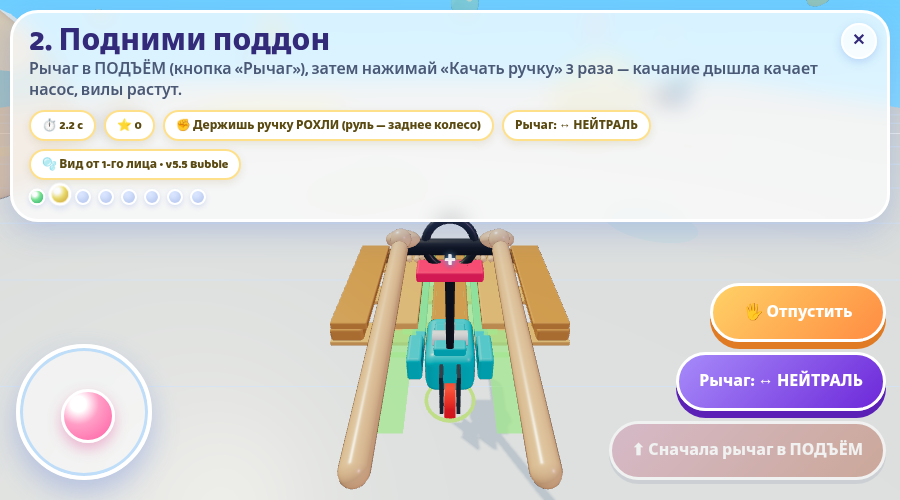
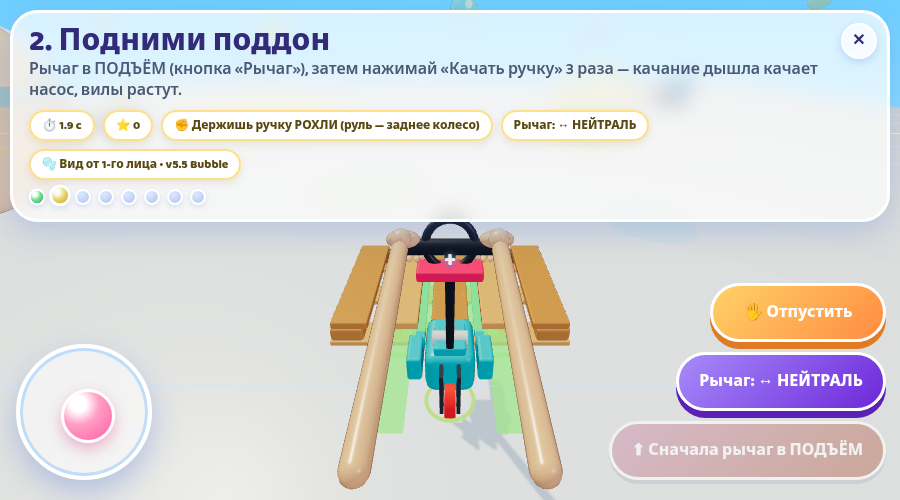
v5.5: manual izolon unroll - pull sheet edge to floor target

diff --git a/index.html b/index.html
@@ -169,6 +169,11 @@ for(let i=0;i<4;i++){const t=new THREE.Mesh(new THREE.TorusGeometry(.252,.006,6,
 box(izolonRoll,-.45,0,0,.08,.28,.5,0x44505a); box(izolonRoll,.45,0,0,.08,.28,.5,0x44505a);
 box(izolonRoll,0,.06,-.32,1.0,.06,.12,0x44505a);
 const rollLabel=box(izolonRoll,0,.52,.18,.55,.16,.03,M.yellow);
+// v5.5 MANUAL UNROLL: yellow floor target the player must pull the sheet edge to (~1.4m strip)
+const pullTargetPos=new THREE.Vector2(rollPos.x-1.7,rollPos.y+0.3);
+const pullTarget=new THREE.Mesh(new THREE.TorusGeometry(.34,.035,10,32),new THREE.MeshBasicMaterial({color:0xffd400,transparent:true,opacity:.9}));
+pullTarget.rotation.x=Math.PI/2; pullTarget.position.set(pullTargetPos.x,.03,pullTargetPos.y); pullTarget.visible=false; scene.add(pullTarget);
+let pullLen=0; const PULL_NEED=1.25;
 // strip unrolled from roll (grows during unroll anim) + loose cut strip on floor
 const unrolled=box(scene,0,-1,0,.95,.018,1.4,0xfff7fb); unrolled.visible=false;
 const looseStrip=box(scene,0,-1,0,1.30,.02,.95,0xfff7fb); looseStrip.visible=false;
@@ -254,7 +259,7 @@ const stages=[
  ["3. Вывези поддон на жёлтую площадку","Рычаг в НЕЙТРАЛЬ — в ней насос отключён и можно везти. Управление — ЗАДНИМ колесом, как машина задом: толкаешь от себя, повернул дышло/заднее колесо влево — корма уходит влево, а нос вил при этом доворачивается ВПРАВО (и наоборот). На месте корпус с вилами не поворачивается.","Ехать"],
  ["4. Опусти поддон и отойди","Поставь рычаг в ОПУСКАНИЕ и нажми действие — пока держишь рычаг, клапан открыт и вилы плавно идут вниз пропорционально. Затем «Отпустить» и отойди.","Рычаг — опустить"],
  ["5. Подкати тележку — БАБИНОЙ вперёд","Подойди к ручке тележки сзади, нажми «Взять». Лицевая часть тележки — где бабина с лентой: кати её БАБИНОЙ к поддону, ручка остаётся у тебя сзади.","Ехать"],
- ["6. Изолон: отмотай от рулона, отрежь у рулона, положи на поддон","Большой рулон изолона стоит рядом с площадкой. 1) «Отмотай изолон от рулона» — рулон крутится, полоса тянется. 2) Возьми нож у рулона и «Отрежь полосу ножом у рулона». 3) «Положи полосу на поддон».","Отмотай изолон от рулона"],
+ ["6. Изолон: САМ отмотай от рулона, отрежь у рулона, положи на поддон","Изолон отматываешь вручную, не кнопкой: 1) Подойди к рулону и нажми «Взять край изолона». 2) ИДИ от рулона к жёлтой метке на полу и тяни — полоса вытягивается за тобой, рулон крутится и уменьшается, длина растёт с пройденным расстоянием (нужно ≥1.25 м, метка ≈1.4 м полосы). Не дотянул или ушёл не туда — отпусти край («Отпустить») и попробуй снова. 3) Возьми нож у рулона и отрежь полосу У РУЛОНА. 4) Положи полосу на поддон.","Взять край изолона"],
  ["7. Протяни ленту под поддоном","Подойди к тележке у поддона и нажми «Протянуть ленту»: передняя бабина раскрутится, лента уйдёт под поддон и вокруг него.","Протянуть ленту"],
  ["8. Затяни стреппером","Упаковщик VertexTools лежит в корзинке/лотке тележки H-83. Подойди к тележке, возьми его из лотка («Взять»), подойди к поддону и нажми «Затянуть».","Затянуть стреппером"],
 ];
@@ -279,14 +284,14 @@ function updateHUD(){
  $('stageHint').textContent=finished?`Время: ${elapsed.toFixed(1)} c • Очки: ${score}. Нажми «Ещё раз».`:stages[stage][1];
  $('score').textContent='⭐ '+score;
  $('leverPill').textContent='Рычаг: '+(leverPos==='lift'?'⬆ ПОДЪЁМ':leverPos==='lower'?'⬇ ОПУСКАНИЕ':'↔ НЕЙТРАЛЬ'); $('btnLever').textContent='Рычаг: '+(leverPos==='lift'?'⬆ ПОДЪЁМ':leverPos==='lower'?'⬇ ОПУСКАНИЕ':'↔ НЕЙТРАЛЬ');
- $('holdPill').textContent=holding==='jack'?'✊ Держишь ручку РОХЛИ (руль — заднее колесо)':holding==='cart'?'✊ Держишь тележку (бабина спереди)':holding==='knife'?'🔪 В руке нож':holding==='tool'?'🔧 В руках стреппер':'✋ Руки свободны';
+ $('holdPill').textContent=holding==='jack'?'✊ Держишь ручку РОХЛИ (руль — заднее колесо)':holding==='cart'?'✊ Держишь тележку (бабина спереди)':holding==='edge'?'✊ Держишь край ИЗОЛОНА — тяни к жёлтой метке':holding==='knife'?'🔪 В руке нож':holding==='tool'?'🔧 В руках стреппер':'✋ Руки свободны';
  [...dots.children].forEach((d,i)=>{d.className='dot'+(i<stage||finished?' on':i===stage?' cur':'')});
  const b=$('action');
  if(finished){b.disabled=false;b.textContent='🔄 Ещё раз';return}
  if(stage===1){b.disabled=holding!=='jack'||leverPos!=='lift';b.textContent=leverPos!=='lift'?'⬆ Сначала рычаг в ПОДЪЁМ':`💪 Качать ручку (${pumps}/3)`}
  else if(stage===3){b.disabled=!(holding==='jack'&&palletState==='onForks'&&leverPos==='lower');b.textContent=leverPos!=='lower'?'⬇ Сначала рычаг в ОПУСКАНИЕ':'⬇ Держать рычаг — опустить'}
  else if(stage===5){ const dRoll=playerPos.distanceTo(rollPos), dPal=playerPos.distanceTo(new THREE.Vector2(pallet.position.x,pallet.position.z));
-   if(sheetSub===0){b.disabled=holding!==null||!!anim||dRoll>2.6;b.textContent='🌀 Отмотай изолон от рулона'}
+   if(sheetSub===0){b.disabled=true;b.textContent=holding==='edge'?`📏 Тяни к жёлтой метке: ${pullLen.toFixed(2)} / ${PULL_NEED.toFixed(2)} м`:'✋ Возьми край изолона у рулона и тяни сам'}
    else if(sheetSub===1){b.disabled=holding!=='knife'||dRoll>2.8;b.textContent='✂ Отрежь полосу ножом у рулона'}
    else {b.disabled=holding!==null||dPal>2.6;b.textContent='⬜ Положи полосу на поддон'} }
  else if(stage===6){b.disabled=!!anim;b.textContent='🧵 Протянуть ленту (бабина крутится!)'}
@@ -328,6 +333,7 @@ function nearestInteract(){
  const cands=[];
  const jp=gripWorld(jackGrip); if(playerPos.distanceTo(new THREE.Vector2(jp.x,jp.z))<1.8)cands.push({id:'jack',label:'✋ Взять ручку рохли',d:playerPos.distanceTo(new THREE.Vector2(jp.x,jp.z))});
  const cp=gripWorld(cartGrip); if(playerPos.distanceTo(new THREE.Vector2(cp.x,cp.z))<1.8)cands.push({id:'cart',label:'✋ Взять ручку тележки',d:playerPos.distanceTo(new THREE.Vector2(cp.x,cp.z))});
+ if(stage===5&&sheetSub===0&&playerPos.distanceTo(rollPos)<2.0)cands.push({id:'edge',label:'✋ Взять край изолона',d:playerPos.distanceTo(rollPos)});
  if(stage===5&&sheetSub===1&&knife.visible){const kp=knife.position; if(playerPos.distanceTo(new THREE.Vector2(kp.x,kp.z))<1.9)cands.push({id:'knife',label:'✋ Взять нож',d:playerPos.distanceTo(new THREE.Vector2(kp.x,kp.z))})}
  if(stage===7&&tool.visible!==false){const tp=tool.position; if(playerPos.distanceTo(new THREE.Vector2(tp.x,tp.z))<1.9)cands.push({id:'tool',label:'✋ Взять упаковщик из лотка тележки',d:playerPos.distanceTo(new THREE.Vector2(tp.x,tp.z))})}
  cands.sort((a,b)=>a.d-b.d); return cands[0]||null;
@@ -338,6 +344,7 @@ $('btnShowHud').onclick=()=>{document.getElementById('hud').style.display='';doc
 function doTake(){
  if(anim)return;
  if(holding){
+   if(holding==='edge'){holding=null; pullLen=0; unrolled.visible=false; rollSpin.rotation.x=0; rollSpin.scale.set(1,1,1); toast('🖐 Отпустил край изолона — полоса не засчитана, попробуй снова'); updateHUD(); return;}
    if(holding==='knife'){knife.visible=true; knife.position.set(playerPos.x+dirOf(playerYaw).x*.4,.22,playerPos.y+dirOf(playerYaw).y*.4)}
    if(holding==='tool'){tool.position.set(playerPos.x+dirOf(playerYaw).x*.4,.25,playerPos.y+dirOf(playerYaw).y*.4)}
    holding=null; toast('🖐 Отпустил'); updateHUD(); return;
@@ -345,7 +352,7 @@ function doTake(){
  const it=nearestInteract(); if(!it)return;
  holding=it.id; started=true;
  if(holding==='knife')knife.visible=false;
- toast(it.id==='jack'?'✊ Взялся за ручку рохли! Стик ◀▶ рулит задним колесом':it.id==='cart'?'✊ Взялся за тележку. Бабина — спереди, кати её к поддону':it.id==='knife'?'🔪 Нож в руке':'🔧 Стреппер в руках');
+ toast(it.id==='edge'?'✊ Держишь край изолона! Иди к жёлтой метке — тяни полосу от рулона':it.id==='jack'?'✊ Взялся за ручку рохли! Стик ◀▶ рулит задним колесом':it.id==='cart'?'✊ Взялся за тележку. Бабина — спереди, кати её к поддону':it.id==='knife'?'🔪 Нож в руке':'🔧 Стреппер в руках');
  updateHUD();
 }
 $('btnLever').onclick=()=>{leverPos=leverPos==='neutral'?'lift':leverPos==='lift'?'lower':'neutral'; leverAnim=1; toast(leverPos==='lift'?'⬆ Рычаг: ПОДЪЁМ — качай ручку':leverPos==='lower'?'⬇ Рычаг: ОПУСКАНИЕ — вилы пойдут вниз':'↔ Рычаг: НЕЙТРАЛЬ — можно везти'); updateHUD()};
@@ -357,16 +364,11 @@ function doAction(){
    const lift=.038*pumps; pallet.position.y=lift; jackForks.position.y=lift; Pump_Piston.position.y=pistonBaseY+lift*.5;
    if(pumps>=3){palletState='onForks';nextStage('✅ Поддон поднят на вилах!')} else updateHUD();}
  else if(stage===3&&holding==='jack'&&palletState==='onForks'&&leverPos==='lower'){leverAnim=1; const y0=pallet.position.y; anim={t:0,dur:1.2,mode:'lower',fn:k=>{pallet.position.y=y0*(1-k); jackForks.position.y=y0*(1-k); Pump_Piston.position.y=pistonBaseY+y0*(1-k)*.5;},done:()=>{palletState='placed';score+=50;leverPos='neutral';toast('⬇ Поддон опущен (клапан открыт рычагом). Отпусти ручку и отойди');updateHUD()}}}
- else if(stage===5&&sheetSub===0){ // UNROLL from big roll
-   anim={t:0,dur:2.2,mode:'unroll',fn:k=>{rollSpin.rotation.x+=0.22; unrolled.visible=true;
-     const rp=new THREE.Vector3(); izolonRoll.getWorldPosition(rp);
-     const dir=new THREE.Vector3(-Math.sin(izolonRoll.rotation.y),0,-Math.cos(izolonRoll.rotation.y));
-     const len=.3+1.35*k; unrolled.scale.z=len/1.4; unrolled.position.set(rp.x+dir.x*(0.28+len/2),.035,rp.z+dir.z*(0.28+len/2)); unrolled.rotation.y=izolonRoll.rotation.y;},
-     done:()=>{sheetSub=1; knife.visible=true; const rp=izolonRoll.position; knife.position.set(rp.x-.55,.30,rp.z+.55); knife.rotation.y=.6; toast('🌀 Полоса отмотана! Возьми нож у рулона'); updateHUD()}}; updateHUD()}
+ else if(stage===5&&sheetSub===0){ toast(holding==='edge'?'🚶 Тяни край к жёлтой метке на полу':'✋ Сначала возьми край изолона у рулона — отмотка только вручную'); }
  else if(stage===5&&sheetSub===1&&holding==='knife'){
    const rp=izolonRoll.position; const cutP=new THREE.Vector3(rp.x-.75,.30,rp.z+.15);
    anim={t:0,dur:1.5,mode:'cut',fn:k=>{cutHandPos=cutP.clone(); cutHandPos.x+=(k-.5)*.25; rollSpin.rotation.x+=0.01},
-     done:()=>{cutHandPos=null;holding=null;unrolled.visible=false; looseStrip.visible=true; looseStrip.position.set(rp.x-1.15,.04,rp.z+.25); looseStrip.rotation.y=izolonRoll.rotation.y+.15; knife.visible=true; knife.position.set(rp.x-.5,.22,rp.z+.6); sheetSub=2; toast('✂ Полоса отрезана от рулона! Отнеси её на поддон'); updateHUD()}}}
+     done:()=>{cutHandPos=null;holding=null;rollSpin.scale.set(1,1,1);rollSpin.rotation.x=0;pullLen=0;unrolled.visible=false; looseStrip.visible=true; looseStrip.position.set(rp.x-1.15,.04,rp.z+.25); looseStrip.rotation.y=izolonRoll.rotation.y+.15; knife.visible=true; knife.position.set(rp.x-.5,.22,rp.z+.6); sheetSub=2; toast('✂ Полоса отрезана от рулона! Отнеси её на поддон'); updateHUD()}}}
  else if(stage===5&&sheetSub===2){ const px=pallet.position.x,pz=pallet.position.z; looseStrip.visible=false;
    anim={t:0,dur:1.0,fn:k=>{sheet.visible=true; sheet.position.set(px,1.5-1.32*k,pz+.02); sheet.rotation.y=(1-k)*.4},done:()=>{sheet.position.y=.185; nextStage('⬜ Полоса изолона на поддоне! Теперь лента')}}}
  else if(stage===6){strapG.visible=true;positionStrap(0.02);
@@ -407,7 +409,27 @@ function updateSlotHighlight(){
   slotState=aim.ok?'ok':(dist<2.2?'bad':'idle');
   return aim;
 }
-function checkStages(){
+function updatePullStrip(){
+  const f=dirOf(playerYaw); const edge=new THREE.Vector2(playerPos.x+f.x*.45,playerPos.y+f.y*.45);
+  const toEdge=new THREE.Vector2().subVectors(edge,rollPos); const dist=toEdge.length();
+  pullLen=Math.max(0,dist-.28); // strip length = distance pulled from roll surface, grows with walked distance
+  const dir=dist>0.001?toEdge.clone().divideScalar(dist):new THREE.Vector2(1,0);
+  unrolled.visible=true; unrolled.scale.z=Math.max(.06,pullLen/1.4);
+  unrolled.position.set(rollPos.x+dir.x*(.28+pullLen/2),.035,rollPos.y+dir.y*(.28+pullLen/2));
+  unrolled.rotation.y=Math.atan2(toEdge.x,toEdge.y);
+  rollSpin.rotation.x=-pullLen/.25; // roll spins as sheet unwinds
+  const shrink=1-.10*Math.min(1,pullLen/1.7); rollSpin.scale.set(1,shrink,shrink); // roll visibly gets thinner
+}
+function checkPull(){
+  if(!(stage===5&&sheetSub===0&&holding==='edge'))return;
+  updatePullStrip();
+  if(playerPos.distanceTo(pullTargetPos)<.45&&pullLen>=PULL_NEED){
+    holding=null; sheetSub=1; knife.visible=true; const rp=izolonRoll.position;
+    knife.position.set(rp.x-.55,.30,rp.z+.55); knife.rotation.y=.6;
+    score+=30; toast(`✅ Отмотал вручную ${pullLen.toFixed(2)} м! Теперь отрежь у рулона ножом`); updateHUD();
+  }
+}
+function checkStages(){ checkPull();
  const fc=forkCenter(), pp=new THREE.Vector2(pallet.position.x,pallet.position.z);
  if(stage===0){const aim=updateSlotHighlight();
    // entered: fork centre well inside pallet footprint and aligned
@@ -509,6 +531,9 @@ function updateHands(dt){
    poseL=gripPose(jackGrip,-.14); poseR=gripPose(jackGrip,.14); curlL=curlR=1.0;
  } else if(holding==='cart'){
    poseL=gripPose(cartGrip,-.11); poseR=gripPose(cartGrip,.11); curlL=curlR=.88;
+ } else if(holding==='edge'){
+   poseL=camPose(handL,-.25,-.28,-.5,-.5,.3);
+   poseR=camPose(handR,.22,-.34,-.46,-.65,-.2); curlR=.95; curlL=.25; // round right hand grips sheet edge
  } else if(holding==='knife'){
    poseL=camPose(handL,-.27,-.33,-.5,-.5,.3);
    poseR=camPose(handR,.26,-.28,-.48,-.6,-.25); curlR=.92;
@@ -546,6 +571,10 @@ if(demo==='grip'){
   playerPos.set(1.6,-7.7); playerYaw=-0.55; playerPitch=-.14; demoFreeze=true;
   jack.position.set(jackPos.x,0,jackPos.y); jack.rotation.y=jackAng; jack.updateMatrixWorld(true);
   // hands free visible low
+} else if(demo==='pull'){
+  stage=5; sheetSub=0; holding='edge'; started=true; demoFreeze=true;
+  playerPos.set(5.55,1.95); playerYaw=2.32; playerPitch=-.48; // looking back/down at roll: stretched strip visible on floor to the roll
+  updatePullStrip();
 } else if(demo==='cut'){
   pallet.position.set(zone.position.x,0,zone.position.z); palletState='placed';
   unrolled.visible=true; unrolled.position.set(rollPos.x-.85,.035,rollPos.y+.35); unrolled.rotation.y=izolonRoll.rotation.y;
@@ -599,6 +628,7 @@ function loop(){requestAnimationFrame(loop); const dt=Math.min(clock.getDelta(),
  camera.rotation.set((holding==='jack'||holding==='cart')?playerPitch-.42:playerPitch,effYaw+Math.PI,0);
  updateHands(dt);
  zone.children[0].material.opacity=.28+.14*Math.sin(performance.now()*.004);
+ pullTarget.visible=(stage===5&&sheetSub===0); if(pullTarget.visible){pullTarget.material.opacity=.65+.3*Math.sin(performance.now()*.006); const sc=1+.08*Math.sin(performance.now()*.006); pullTarget.scale.set(sc,sc,sc);}
  const bt=performance.now()*.001; for(const b of bubbles){b.m.position.y+=Math.sin(bt*.7+b.ph)*.0006+b.sp*dt; b.m.position.x=b.x+Math.sin(bt*.5+b.ph)*.25; if(b.m.position.y>4.2)b.m.position.y=.5;}
  $('timer').textContent='⏱ '+elapsed.toFixed(1)+' c';
  // refresh take/action availability lightly

diff --git a/README.md b/README.md
@@ -16,7 +16,7 @@ cd warehouse_game && python3 -m http.server 8765
 - **Стреппер VertexTools 14.4V Li-Ion V2 (v5.1):** сверен с оригиналом — Li-Ion 14.4V 4.0Ah, лента ПП/ПЭТ 12–16 мм, натяжение до 3200 Н, сварка трением, ~3,6 кг, инструмент ~380×130×130 мм (440×180×280 — упаковка). В игре: вытянутый бирюзовый корпус 370×130×160, нос спереди, ручка/дисплей сверху, батарея 14.4V сзади/снизу. **Лежит в корзинке/лотке тележки H-83** — оттуда игрок его и берёт на этапе затяжки. Blender `strapping_tool.glb` не переделывался (длина ~340 мм, делался по фото этого инструмента).
 - **Тележка-диспенсер H-83 (v5.1):** оригинал https://www.polimer76.ru/product/dispenser-n-83/ — 700×400×400 мм, 11 кг, пластиковый лоток для инструмента/скоб, колёса шириной 38 мм, бабина: внутр. Ø200 мм (280 с переходником), бухта до Ø590, ширина до 200 мм. В игре: длина ~700, ширина 400, бабина спереди плоский диск Ø480×180 (не широкий барабан), лоток сверху/за бабиной, задние колёса 38 мм. Движется только в наклонном положении, вертикально стоит устойчиво — в игре наклон не усложняли, применены габариты и плоская бабина. Blender `strap_cart` пересобран теми же пропорциями.
 - **Рохля по чертежу пользователя (v5.1):** общая длина 1000 мм, рукоять до 1150 мм, корпус/насос до 365 мм, верх опущенных вил ~60 мм, вилы от корпуса 705 мм, ширина по вилам 440 мм (между вилами 280 мм, вила 80 мм), концы вил скруглённые, одно большое рулевое колесо Ø~190 мм у насоса, маленькие сдвоенные ролики под концами вил, тонкая штанга-дышло с замкнутой петлёй сверху. Низкий вытянутый корпус с наклонной передней стенкой (не кубик). В игре центры вил сохранены под пазы поддона, визуально вилы тонкие 80 мм.
-- **v5.5:** заезд рохли в поддон развёрнут на 180° (было со стороны прохода/юга и старта игрока, стало со стороны стеллажа/севера: поддон стоит у стеллажа, стеллаж отодвинут к северной стене, рохля и игрок стартуют с северной стороны, южный торец поддона закрыт планкой, пазы подсвечиваются только у северного торца, slotAim подписанный — прежняя сторона не засчитывается) + управление переделано на ЗАДНЕЕ рулевое колесо как движение машины задом (пивот едет вдоль заднего колеса, доворот корпуса = -(v/L)·sin(steer): толчок от себя + колесо влево → корма влево, нос вил вправо; тест t=0.5с: rearDx=+0.386м, yaw=-28.1°, t=2с: yaw=-109.8°, нос noseX=-0.941, симметрично вправо наоборот; на месте корпус заморожен). Приёмка: `game_v55_slots.png`, `game_v55_jack.png`, `game_v55_grip.png`, `game_v55_turn.png`.
+- **v5.5:** заезд рохли в поддон развёрнут на 180° (было со стороны прохода/юга и старта игрока, стало со стороны стеллажа/севера: поддон стоит у стеллажа, стеллаж отодвинут к северной стене, рохля и игрок стартуют с северной стороны, южный торец поддона закрыт планкой, пазы подсвечиваются только у северного торца, slotAim подписанный — прежняя сторона не засчитывается) + управление переделано на ЗАДНЕЕ рулевое колесо как движение машины задом (пивот едет вдоль заднего колеса, доворот корпуса = -(v/L)·sin(steer): толчок от себя + колесо влево → корма влево, нос вил вправо; тест t=0.5с: rearDx=+0.386м, yaw=-28.1°, t=2с: yaw=-109.8°, нос noseX=-0.941, симметрично вправо наоборот; на месте корпус заморожен). Изолон на этапе 6 отматывается ВРУЧНУЮ (не кнопкой): «Взять край изолона» у рулона → игрок идёт к жёлтой метке на полу (pullTarget в 1.7 м от рулона), полоса тянется за рукой, `pullLen = расстояние от поверхности рулона до края` растёт с пройденным путём, рулон крутится (`rotation.x=-pullLen/0.25`) и тончает до −10%; засчитывается при игроке в радиусе 0.45 м от метки и pullLen ≥1.25 м (≈1.4 м полосы), отпускание края до метки сбрасывает попытку; дальше нож у рулона и полоса на поддон как раньше. Приёмка: `game_v55_slots.png`, `game_v55_jack.png`, `game_v55_grip.png`, `game_v55_turn.png`, `game_v55_pull.png`, `game_v55_cut.png`.
 - **v5.4:** стыковка деталей (силуэт и размеры v5.3 не менялись): основания вил заходят под/внутрь насосного блока через низкий переходной узел-коромысло (перекрытия 10–40 мм, без светлых зазоров сбоку и сверху); рулевое колесо Ø190 на оси в вилке-щёках, примыкающих к низу блока и касающихся земли; дышло входит в поворотный узел на верху блока, шток Pump_Piston соединяет блок и узел и виден в стыке; ролики у концов вил — оси внутри вил, ролики касаются земли и нижней кромки вил. В Blender меши пересекаются на 5–15+ мм, в Three.js те же перекрытия у Fork/Body/Steering/Roller. Приёмка рендерами: `pallet_jack_side.png`, `pallet_jack_parts.png`, `game_v54_jack.png`, `game_v54_grip.png`.
 - **v5.3:** рохля переделана по силуэту: компактный насосный блок 300×240 мм высотой 360 мм (не клин/не ящик), большое рулевое колесо Ø190 мм ПОД блоком и видно сбоку, длинные тонкие вилы 1100 мм от блока (ширина вилы 80 мм, толщина ~50 мм, сдвоенные ролики у концов), общая длина ~1550 мм, высота до петли ~1180 мм. Вилы проходят под европоддоном 1200×800 почти на всю глубину (в игре поддон 1450×950 в игровом масштабе, вилы 1100 от блока). Чертёж пользователя — короткая версия (вилы 705 при длине 1000): пропорции по ширине взяты с него (440 по вилам), длина вил увеличена под европоддон — указано честно. Blender `pallet_jack_parts` и игра совпадают по длине вил. Рендер-приёмка: `pallet_jack_side.png`, `game_v53_jack.png`, `game_v53_slots.png`, `game_v53_grip.png`.
 - **v5.2:** рохля пересобрана низким вытянутым профилем с наклонной мордой (не кубик), большое рулевое колесо Ø210 под/за насосом, руки — компактные круглые кисти, предплечья уходят за нижний край кадра; управление: скорость по направлению рулевого колеса (jackAng+steer), доворот корпуса = v·sin(steer)/0.95 (на месте корпус заморожен, руль ±77°) — тест: руль влево+толкать вперёд → нос влево, вправо → вправо (headless PASS).
